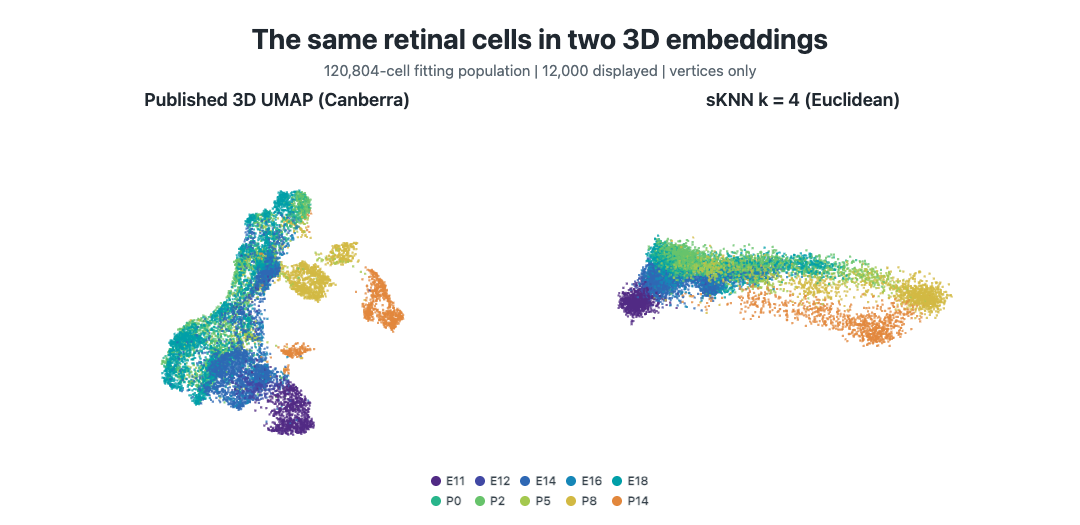
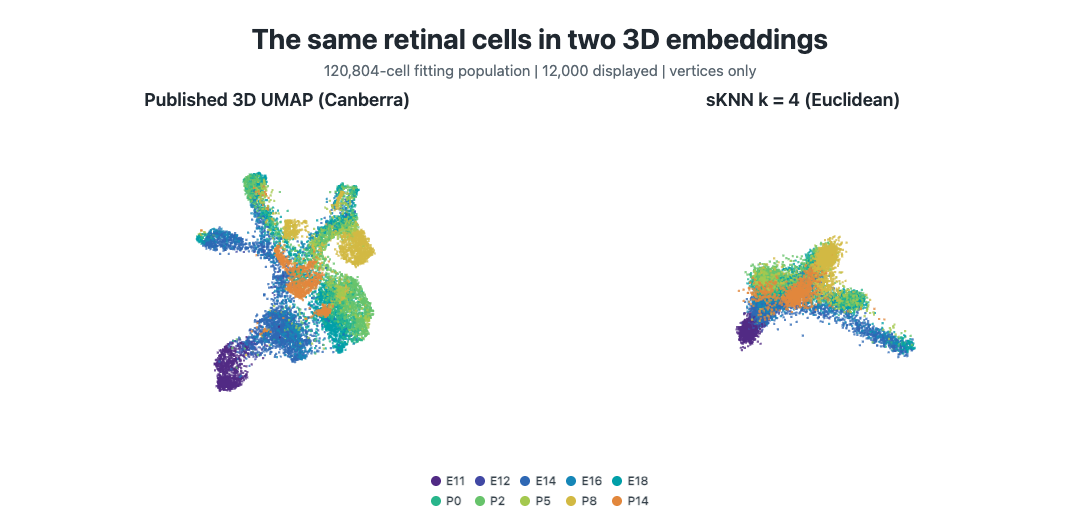
Orient retinal comparison views toward the P14 centroid

Changed region(s): [[0.1528, 0.3048, 0.3972, 0.8533], [0.55, 0.4571, 0.8861, 0.701]]

diff --git a/man/figures/README.md b/man/figures/README.md
@@ -79,10 +79,23 @@ matched UMAP comparison appears later.
 
 The comparison GIF holds each of its 72 frames for 200 milliseconds, giving a
 14.4-second full rotation. Both panels receive the identical camera matrix at
-each frame. The original 7.2-second sequence was slowed by changing frame
-delays only: decoded pixels, dimensions, frame count, and file size are
-unchanged. The sKNN hero retains its 7.2-second rotation. Slower playback adds
-viewing time, not intermediate views; the angular step remains 5 degrees.
+each frame. Slower playback adds viewing time, not intermediate views; the
+angular step remains 5 degrees. The sKNN hero retains its 7.2-second rotation.
+
+Before rendering the comparison, each displayed cloud is centered and rigidly
+rotated so that the vector from its overall centroid to its P14 centroid points
+toward the viewer at frame zero. This uses all 873 displayed P14 cells and a
+minimum-angle proper rotation, with no reflection, scaling, deformation, or
+refitting. It is a label-based display orientation, not an alignment of the two
+geometries; dispersed P14 cells need not all lie in front of every other cell.
+The shared camera then rotates both oriented clouds together. The original
+coordinate files are unchanged, as are all within-cloud pairwise distances.
+
+`tools/retinal-view-orientation.R` implements this display transform, with
+rotation matrices and initial camera-space centroid offsets recorded in the
+ignored `artifacts/retinal-readme/orientation-comparison.json`. Run
+`Rscript tools/test-retinal-view-orientation.R` to check distance preservation,
+front-facing centroids, and parallel/antiparallel rotation cases.
 
 The full aggregate Matrix Market file, cell table, and feature table are
 available from
